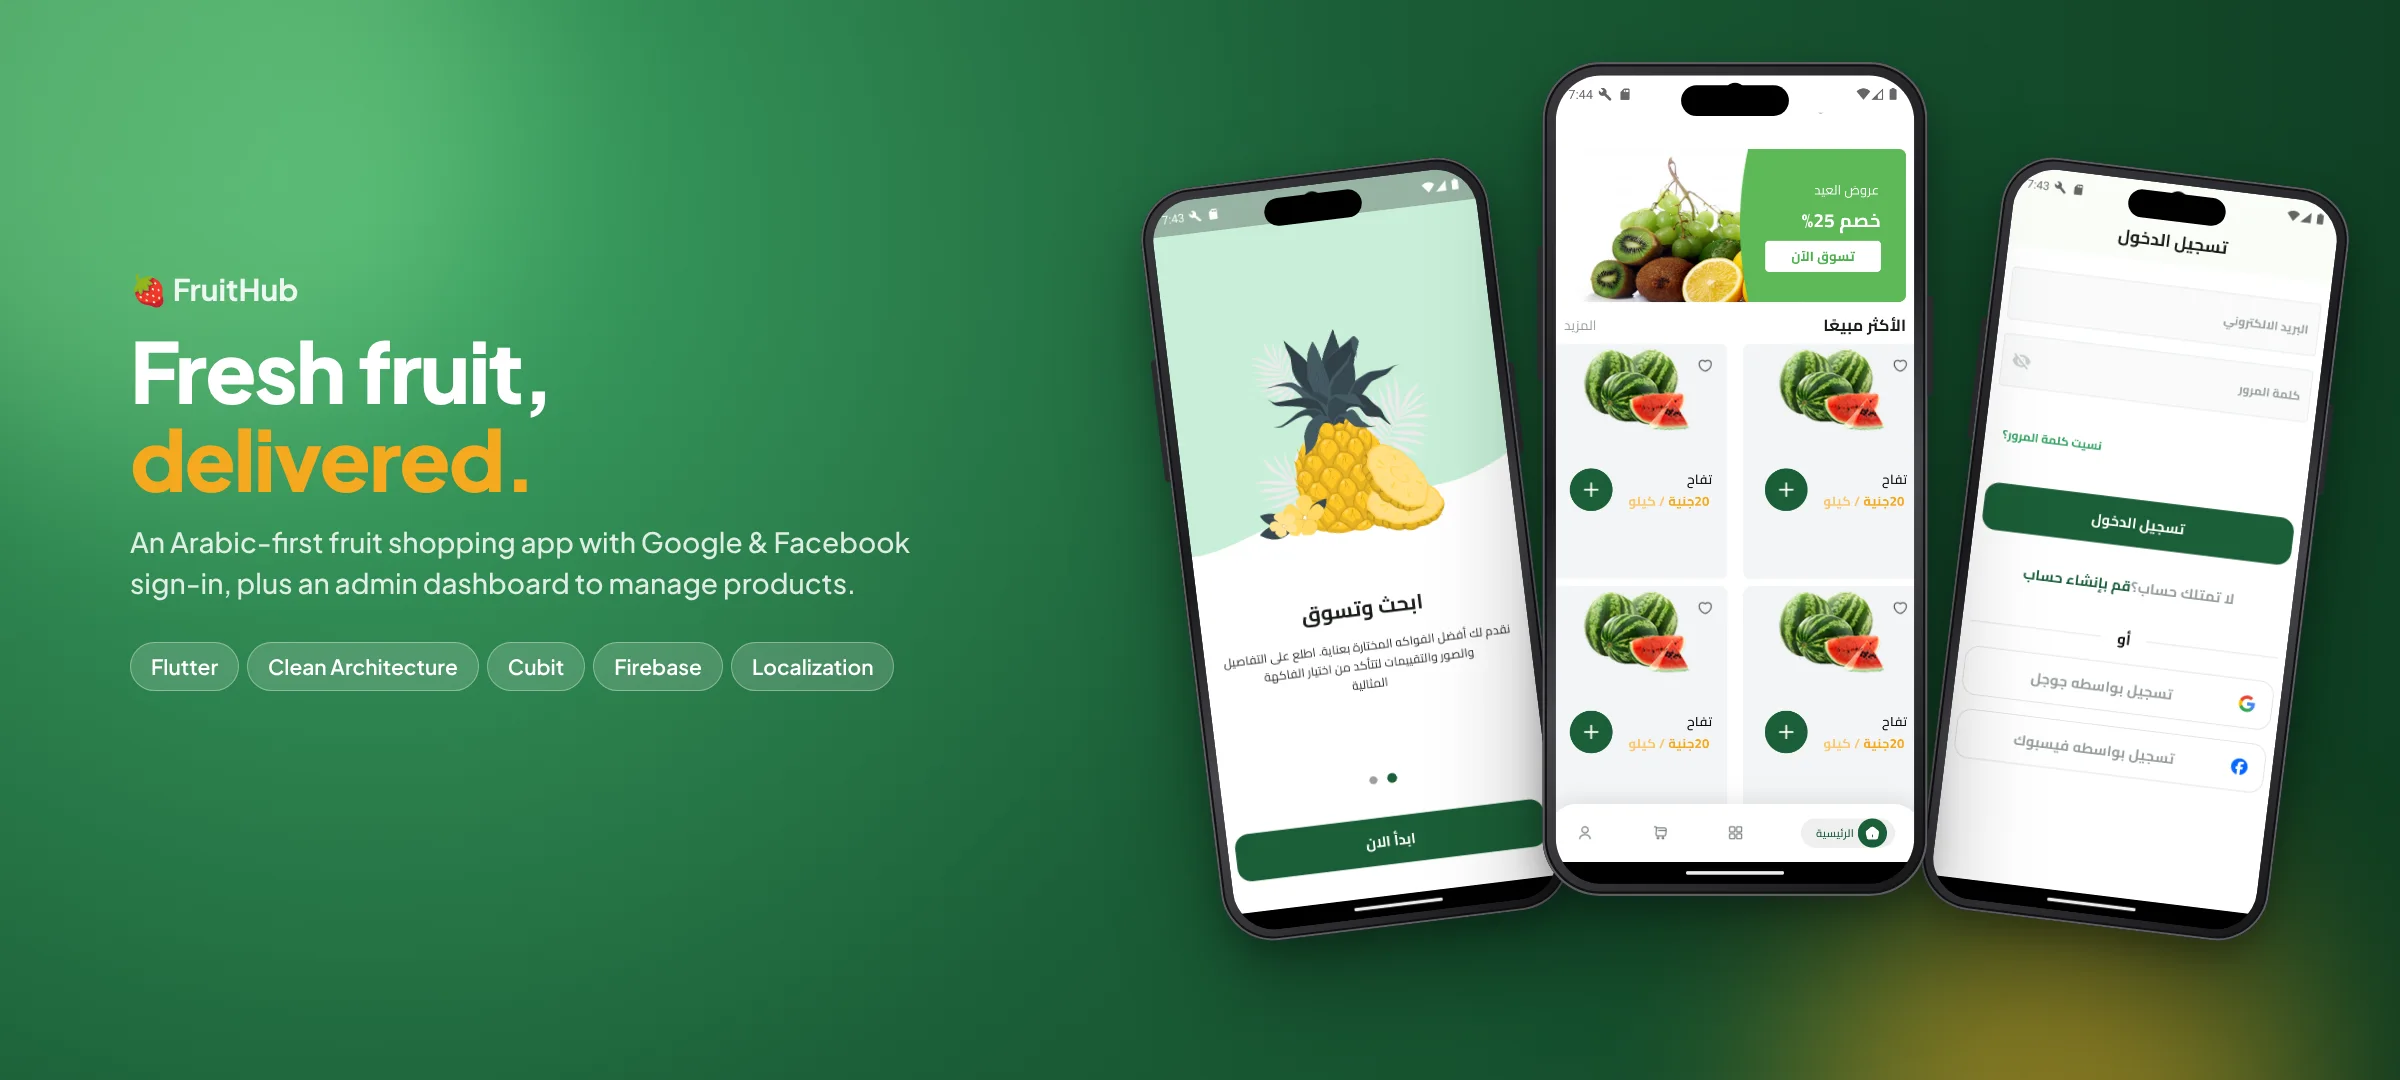
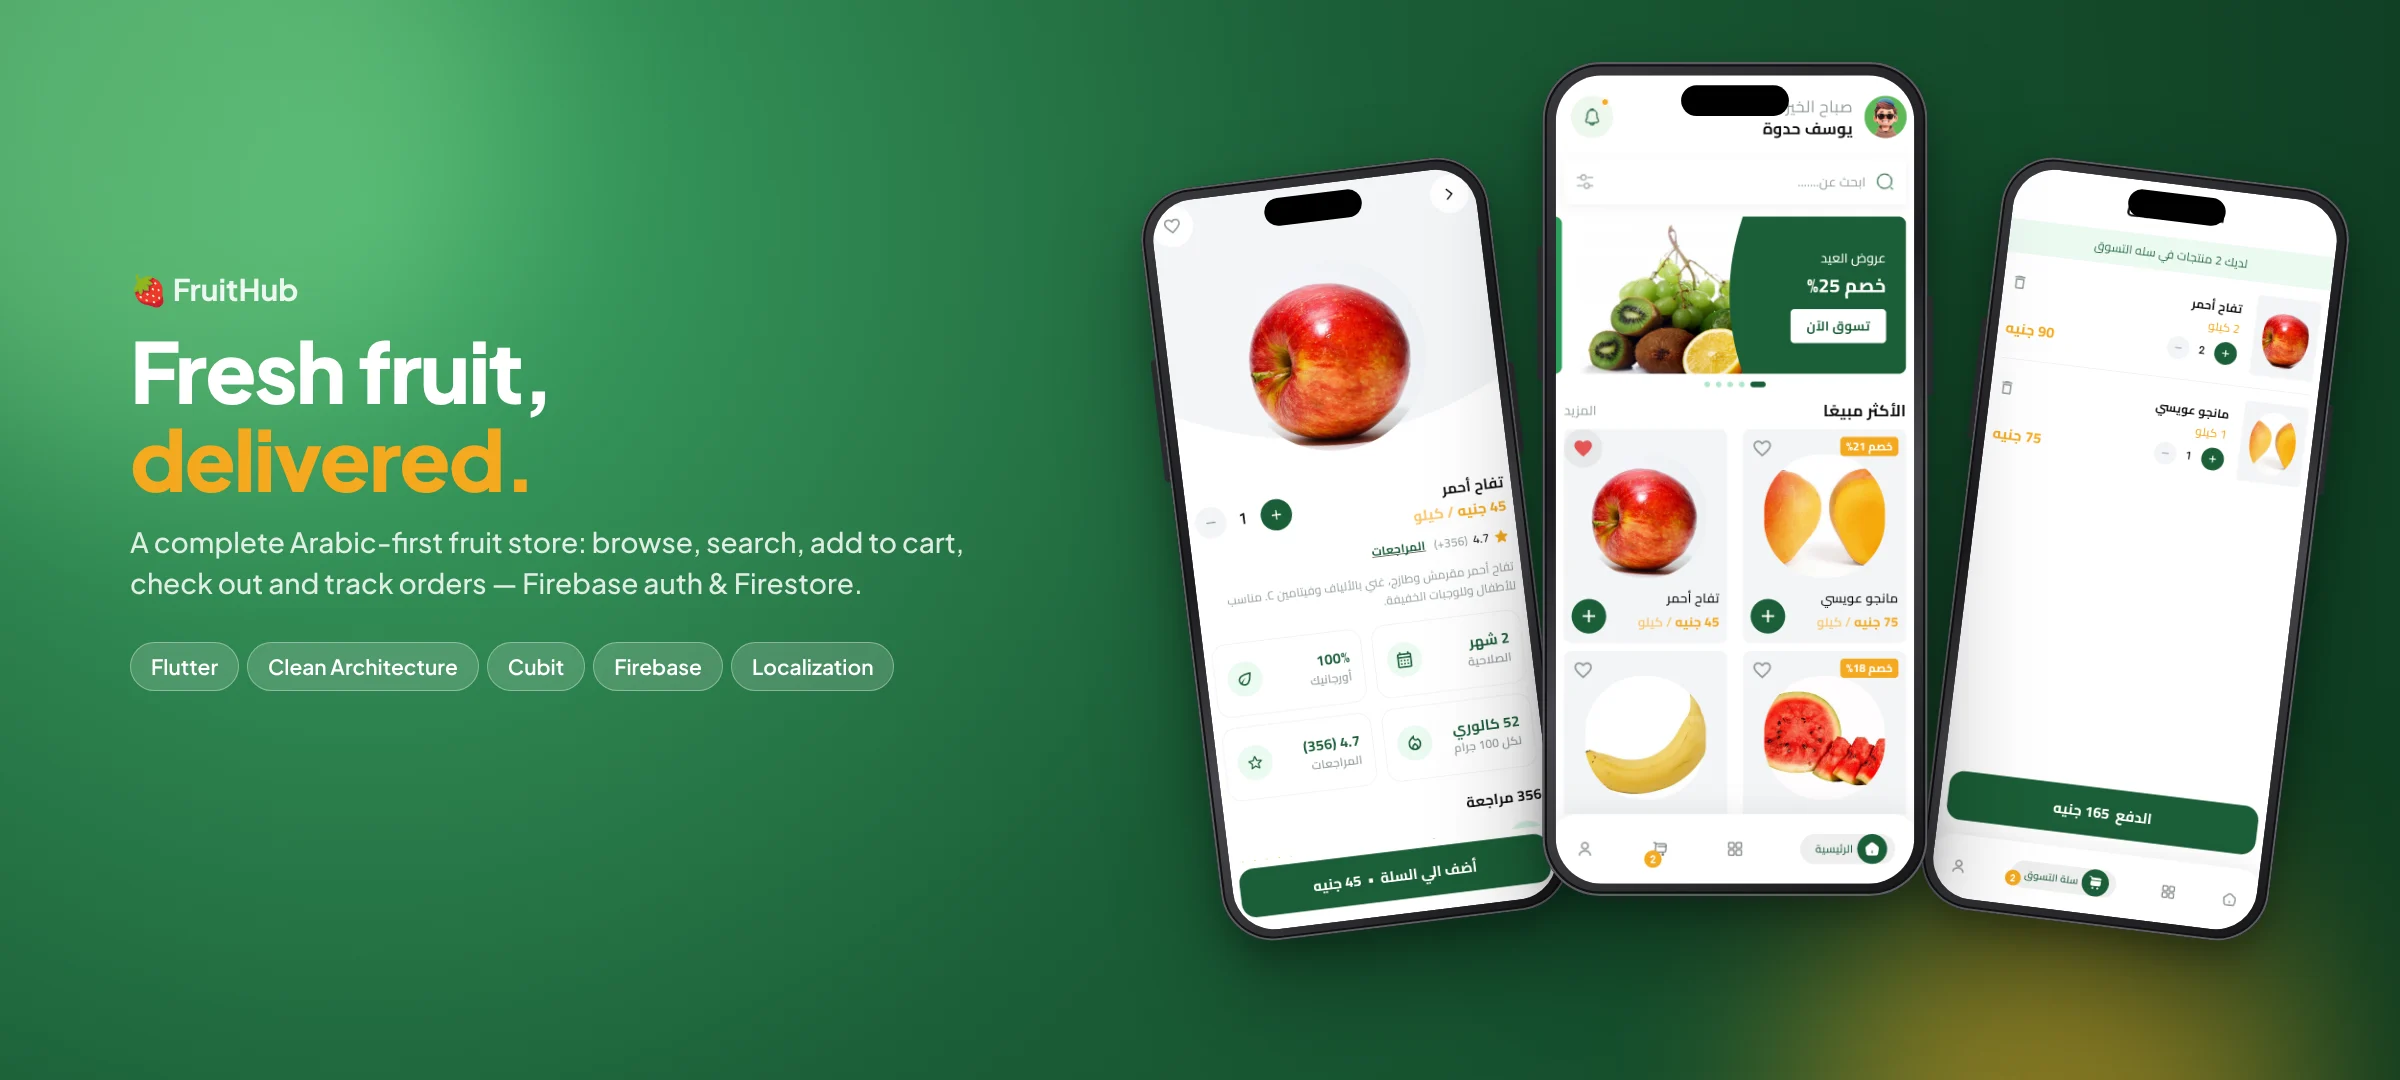
docs: README with the full feature set and new screenshots
Claude-Session: https://claude.ai/code/session_01BhD5TAfLzKQnFu3CEZbsbD

diff --git a/README.md b/README.md
@@ -1,8 +1,9 @@
 <h1 align="center">🍓 FruitHub</h1>
 
 <p align="center">
-  An Arabic-first fruit shopping app built with <b>Flutter</b> and <b>Firebase</b>,
-  with a separate <a href="https://github.com/youssef-hossam/fruit_hub_dash_board">admin dashboard</a> to manage products.
+  A complete, Arabic-first fruit store built with <b>Flutter</b> and <b>Firebase</b> —
+  browse, search, add to cart, check out and track your orders.<br/>
+  Products are managed from the <a href="https://github.com/youssef-hossam/fruit_hub_dash_board">admin dashboard</a>.
 </p>
 
 <p align="center">
@@ -10,47 +11,65 @@
   <img src="https://img.shields.io/badge/Firebase-FFCA28?style=flat-square&logo=firebase&logoColor=black" alt="Firebase"/>
   <img src="https://img.shields.io/badge/Clean%20Architecture-1B5E37?style=flat-square" alt="Clean Architecture"/>
   <img src="https://img.shields.io/badge/State-Cubit-21B18F?style=flat-square" alt="Cubit"/>
+  <img src="https://img.shields.io/badge/i18n-AR%20%2F%20EN-F4A91F?style=flat-square" alt="Arabic / English"/>
 </p>
 
 <p align="center">
   <img src="screenshots/hero.webp" alt="FruitHub" width="100%"/>
 </p>
 
-## 📱 Screens
-
-| Splash | Onboarding | Onboarding |
-|:-:|:-:|:-:|
-| <img src="screenshots/fruit_6.webp" width="200"/> | <img src="screenshots/fruit_4.webp" width="200"/> | <img src="screenshots/fruit_5.webp" width="200"/> |
-
-| Login | Google sign-in | Home |
-|:-:|:-:|:-:|
-| <img src="screenshots/fruit_3.webp" width="200"/> | <img src="screenshots/fruit_2.webp" width="200"/> | <img src="screenshots/fruit_1.webp" width="200"/> |
-
 ## ✨ Features
 
-- 🔐 **Authentication** with Firebase: email & password, **Google** and **Facebook** sign-in.
-- 👤 User data saved in **Cloud Firestore** and cached locally with `shared_preferences`.
-- 🏠 Home with offers, best-selling products and a bottom navigation bar.
-- 🌍 **Localization (Arabic / English)** with `intl`.
-- ✨ Splash & onboarding, loading overlays and clear error messages.
+- 🔐 **Authentication** with Firebase — email & password, **Google** and **Facebook** sign-in, and logout from every provider.
+- 🏠 **Home** — offers carousel, best-selling products and a live cart badge on the bottom bar.
+- 🍎 **Products** from **Cloud Firestore** — categories, sorting (best selling, price, rating) and instant **search** in Arabic or English.
+- 📄 **Product details** — quantity picker, discount, shelf life, organic, calories and customer reviews.
+- 🛒 **Cart** saved on the device — change quantities, swipe to delete, live total.
+- 💳 **3-step checkout** — shipping method, delivery address (validated) and order review; free delivery over 300 EGP.
+- 📦 **My orders** saved in Firestore, with a status timeline (pending → preparing → on the way → delivered).
+- ❤ **Favorites**, 🔔 **notifications** and a **profile** screen.
+- 🌍 **Localization (Arabic / English)** — switch language from the profile, the whole UI flips direction.
+
+## 📱 Screens
+
+| Splash | Onboarding | Login | Social sign-in |
+|:-:|:-:|:-:|:-:|
+| <img src="screenshots/fruit_6.webp" width="190"/> | <img src="screenshots/fruit_4.webp" width="190"/> | <img src="screenshots/fruit_3.webp" width="190"/> | <img src="screenshots/fruit_2.webp" width="190"/> |
+
+| Home | Products | Product details | Search |
+|:-:|:-:|:-:|:-:|
+| <img src="screenshots/home.webp" width="190"/> | <img src="screenshots/products.webp" width="190"/> | <img src="screenshots/details.webp" width="190"/> | <img src="screenshots/search.webp" width="190"/> |
+
+| Cart | Shipping | Address | Review |
+|:-:|:-:|:-:|:-:|
+| <img src="screenshots/cart.webp" width="190"/> | <img src="screenshots/shipping.webp" width="190"/> | <img src="screenshots/address.webp" width="190"/> | <img src="screenshots/review.webp" width="190"/> |
+
+| Order placed | My orders | Profile | Favorites |
+|:-:|:-:|:-:|:-:|
+| <img src="screenshots/success.webp" width="190"/> | <img src="screenshots/orders.webp" width="190"/> | <img src="screenshots/profile.webp" width="190"/> | <img src="screenshots/favorites.webp" width="190"/> |
 
 ## 🏗 How it's built
 
 ```
 lib/
-├── core/            # services, repos, errors, entities, widgets, utils
+├── core/
+│   ├── cubits/        # products, favorites, locale
+│   ├── demo/          # demo data, seeder, in-memory database for demo mode
+│   ├── entities/ models/ repos/
+│   ├── services/      # Firebase auth, Firestore, get_it, shared prefs
+│   └── widgets/       # product card, grids, app bar, quantity stepper…
 └── features/
-    ├── splash/
-    ├── on_boarding/
-    ├── auth/        # data · domain · presentation
-    └── home/        # domain · presentation
+    ├── splash/  on_boarding/  auth/
+    ├── home/  products/  product_details/  search/
+    ├── cart/  checkout/  orders/
+    └── profile/  favorites/  notifications/
 ```
 
-- **Architecture:** Clean Architecture (data / domain / presentation) with the repository pattern.
-- **State management:** Cubit (`flutter_bloc`).
+- **Architecture:** Clean Architecture (data / domain / presentation) with the repository pattern. The app talks to a `DatabaseService` abstraction, so Firestore can be swapped (the demo mode uses an in-memory implementation).
+- **State management:** Cubit (`flutter_bloc`) — products, cart, favorites, orders, checkout and language.
 - **Error handling:** `dartz` — `Either<Failure, T>`.
 - **DI:** `get_it`.
-- **Backend:** Firebase Auth + Cloud Firestore.
+- **Backend:** Firebase Auth + Cloud Firestore (`products`, `users`, `orders`). Security rules are in [`firestore.rules`](firestore.rules).
 
 ## 🚀 Run it
 
@@ -59,7 +78,14 @@ flutter pub get
 flutter run
 ```
 
-> Uses the project's Firebase config. To use your own Firebase project, run `flutterfire configure`.
+- On the first run (debug build), if the `products` collection is empty, the app fills it with **19 demo fruits** (prices, ratings, reviews) and adds a few sample orders for the signed-in user.
+- **Demo mode** — runs without Firebase on in-memory data (handy for a quick preview):
+
+```bash
+flutter run -d chrome --dart-define=DEMO=true
+```
+
+> Uses Flutter **3.16.9** (see `.fvmrc`). Product photos are from Wikimedia Commons — see [`assets/products/CREDITS.md`](assets/products/CREDITS.md).
 
 ---
 
